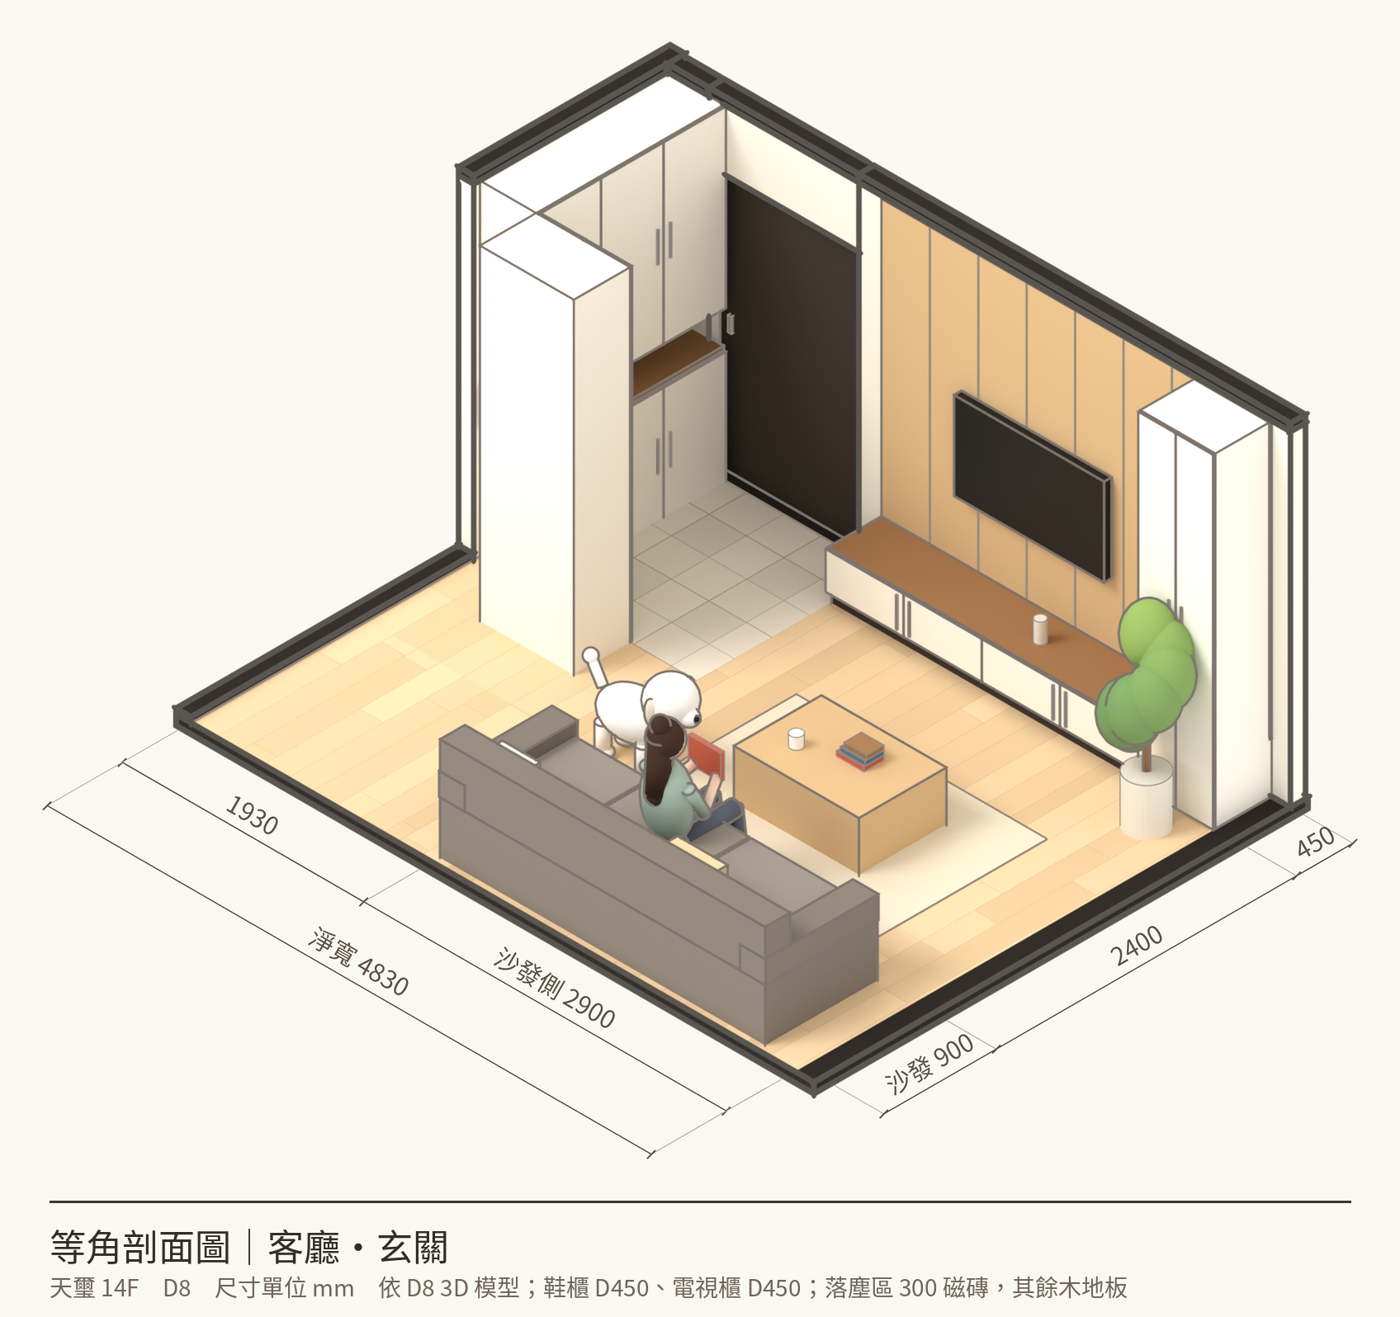
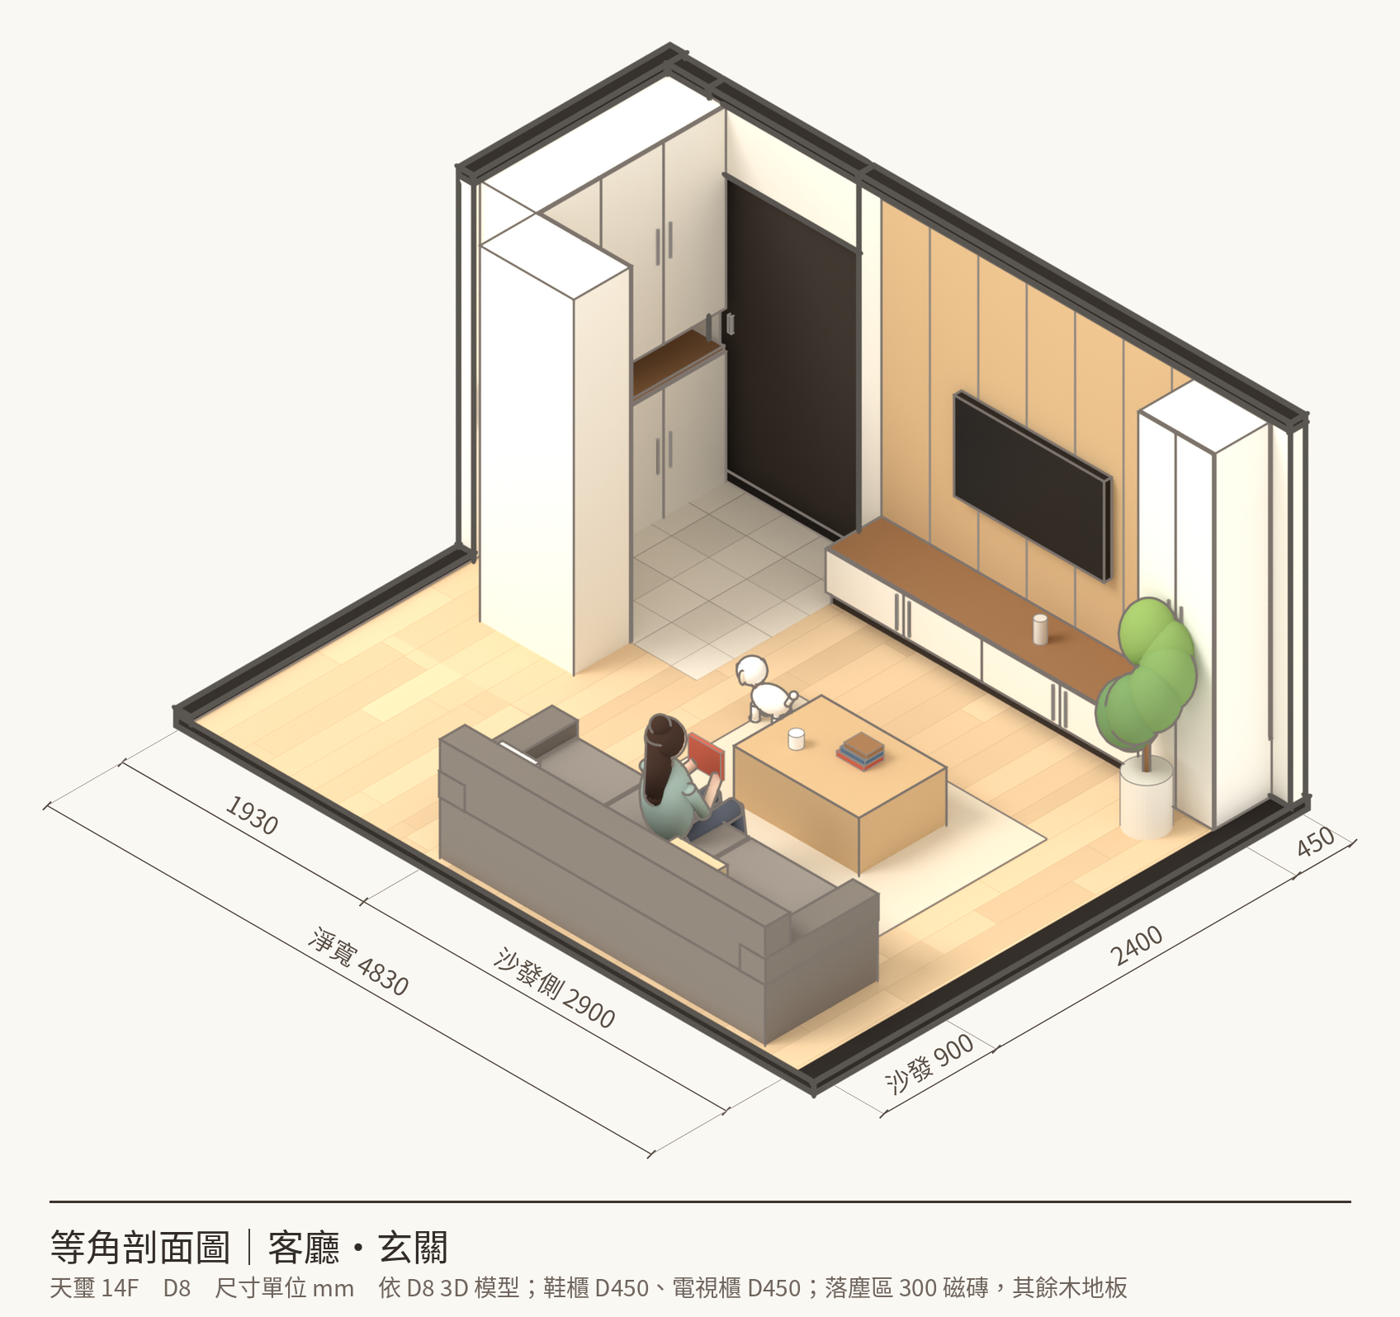
D8 v7: 小狗縮小、CH/窗台改標於說明、尺寸字不壓模型

Changed region(s): [[0.3993, 0.4981, 0.5836, 0.5915]]

diff --git a/index.html b/index.html
@@ -162,7 +162,7 @@ footer{border-top:1px solid var(--line);padding:30px 0 60px;font-size:13px;color
 
 <footer class="w"><b>緯睿室內裝修設計</b><p>尺寸以 D8 平面為準，並以現場丈量為最終依據；樑位置待現場確認。高度、色號、材質以實體樣板與施工圖確認。效果圖與插畫版為 AI 風格示意，非施工依據。</p></footer>
 <script>
-const D={"ROOMS": [{"id": "living", "n": "客廳", "r": [-3300, 0, 1530, 3810], "w": 4830, "d": 3810, "img": "r01_living", "floor": "木地板", "desc": "沙發背靠臥室隔間、面向南側電視牆；西側整面窗採光。", "b": ["沙發 2600×900，茶几 1000×700", "電視櫃 W2500×D450＋客廳高櫃 W600×D450", "西側窗寬約 2250"], "ping": 5.57}, {"id": "entry", "n": "玄關落塵區", "r": [-200, 0, 1080, 1500], "w": 1280, "d": 1500, "img": "r04_entry", "floor": "300×300 磁磚（降板約2cm）", "desc": "進門先落塵，L 型鞋櫃收納。", "b": ["鞋櫃A D450×L1500、鞋櫃B L1200×D450（L 型）", "落塵區開口 1050", "大門門洞 1200（外開）"], "ping": 0.58}, {"id": "kitchen", "n": "廚房", "r": [2280, -20, 6340, 1550], "w": 4060, "d": 1570, "img": "r03_kitchen", "floor": "木地板（全室除衛浴、落塵區外皆木地板）", "desc": "沿南牆一字排開：冰箱＋上櫃、電器高櫃、水槽、三口瓦斯爐；烤漆玻璃壁面＋吊櫃下 LED。", "b": ["由西到東：冰箱700（上方冰箱上櫃 W700）｜電器高櫃600（烤箱＋微波爐）｜一字廚具 2760：水槽900｜備料860｜三口瓦斯爐800｜調味200", "人造石檯面高 850，吊櫃 1500–2600", "中島 ↔ 廚具 走道 920", "東側窗兩扇"], "ping": 1.93}, {"id": "island", "n": "中島區", "r": [3220, 1550, 6340, 3690], "w": 3120, "d": 2140, "img": "r02_dining", "floor": "木地板", "desc": "單一中島兼餐桌，北側為咖啡吧櫃。", "b": ["中島 2000×900（北側懸挑250），IH 兩口，不設水槽", "吧檯椅 ×3，可收入中島下", "咖啡吧櫃 W2400×D450＋展示層板 720×250", "中島東端 ↔ 東牆 940；中島北 ↔ 咖啡吧 960"], "ping": 2.02}, {"id": "master", "n": "主臥", "r": [-3240, 3930, 20, 7080], "w": 3260, "d": 3150, "img": "r05_master", "floor": "木地板", "desc": "雙人床靠北牆，東側整排衣櫃，書桌靠窗角。", "b": ["雙人床 1800×1880", "衣櫃 D600×L2080（系統櫃）", "書桌 800×600", "床 ↔ 衣櫃 860；門洞 900", "窗台 620、窗高 1500"], "ping": 3.11}, {"id": "second", "n": "次臥", "r": [3220, 3930, 6340, 7090], "w": 3120, "d": 3160, "img": "r06_second", "floor": "木地板", "desc": "衣櫃靠西牆，書桌與床並排。", "b": ["雙人床 1500×1880", "衣櫃 D600×L2090（系統櫃）", "書桌 850×600", "床 ↔ 衣櫃 850；門洞 900", "窗台 620、窗高 1500"], "ping": 2.98}], "CABS": [{"id": "c0", "n": "鞋櫃A", "tag": "系統櫃", "r": [1080, 0, 1530, 1500], "dim": "1500×450", "note": "與鞋櫃B 組成 L 型"}, {"id": "c1", "n": "鞋櫃B", "tag": "系統櫃", "r": [330, 1500, 1530, 1950], "dim": "1200×450", "note": "與鞋櫃A 組成 L 型"}, {"id": "c2", "n": "客廳高櫃", "tag": "系統櫃", "r": [-3300, 0, -2700, 450], "dim": "600×450", "note": ""}, {"id": "c3", "n": "電視櫃", "tag": "系統櫃", "r": [-2700, 0, -200, 450], "dim": "2500×450", "note": ""}, {"id": "c4", "n": "電器櫃", "tag": "系統櫃", "r": [2980, -20, 3580, 600], "dim": "620×600", "note": "電器高櫃 W600：烤箱＋微波爐，上下收納"}, {"id": "c5", "n": "一字廚具", "tag": "系統櫃", "r": [3580, -20, 6340, 580], "dim": "2760×600", "note": "水槽900｜備料860｜三口瓦斯爐800｜調味200；人造石檯面、烤漆玻璃壁面、吊櫃下 LED"}, {"id": "c6", "n": "咖啡吧", "tag": "系統櫃", "r": [3940, 3360, 6340, 3810], "dim": "2400×450", "note": ""}, {"id": "c7", "n": "中島", "tag": "木作", "r": [3400, 1500, 5400, 2400], "dim": "2000×900", "note": "2000×900，北側懸挑250；IH 兩口（無水槽）；3 張吧檯椅"}, {"id": "c8", "n": "展示層板", "tag": "木作", "r": [3220, 3560, 3940, 3810], "dim": "720×250", "note": "720×250"}, {"id": "c9", "n": "主臥衣櫃", "tag": "系統櫃", "r": [-580, 5000, 20, 7080], "dim": "2080×600", "note": "到頂系統衣櫃"}, {"id": "c10", "n": "次臥衣櫃", "tag": "系統櫃", "r": [3220, 5000, 3820, 7090], "dim": "2090×600", "note": "到頂系統衣櫃"}, {"id": "c11", "n": "主臥書桌", "tag": "系統櫃", "r": [-1380, 6480, -580, 7080], "dim": "800×600", "note": ""}, {"id": "c12", "n": "次臥書桌", "tag": "系統櫃", "r": [3820, 6490, 4670, 7090], "dim": "850×600", "note": ""}]};const ISO={"kitchen": "<div class=\"isw\"><img src=\"img/iso_d8_kitchen.png\" alt=\"等角剖面 kitchen\" loading=\"lazy\"><button class=\"ihs\" data-c=\"c5\" style=\"left:51.68%;top:42.87%\" title=\"一字廚具\" aria-label=\"一字廚具\"></button><button class=\"ihs\" data-c=\"c7\" style=\"left:41.43%;top:56.9%\" title=\"中島\" aria-label=\"中島\"></button><button class=\"ihs\" data-c=\"c4\" style=\"left:68.53%;top:36.24%\" title=\"電器櫃\" aria-label=\"電器櫃\"></button></div>", "living": "<div class=\"isw\"><img src=\"img/iso_d8_living.png\" alt=\"等角剖面 living\" loading=\"lazy\"><button class=\"ihs\" data-c=\"c3\" style=\"left:70.29%;top:48.41%\" title=\"電視櫃\" aria-label=\"電視櫃\"></button><button class=\"ihs\" data-c=\"c2\" style=\"left:84.14%;top:41.56%\" title=\"客廳高櫃\" aria-label=\"客廳高櫃\"></button><button class=\"ihs\" data-c=\"c0\" style=\"left:45.0%;top:23.03%\" title=\"鞋櫃A\" aria-label=\"鞋櫃A\"></button><button class=\"ihs\" data-c=\"c1\" style=\"left:37.68%;top:31.69%\" title=\"鞋櫃B\" aria-label=\"鞋櫃B\"></button></div>", "master": "<div class=\"isw\"><img src=\"img/iso_d8_master.png\" alt=\"等角剖面 master\" loading=\"lazy\"><button class=\"ihs\" data-c=\"c9\" style=\"left:53.36%;top:31.11%\" title=\"主臥衣櫃\" aria-label=\"主臥衣櫃\"></button><button class=\"ihs\" data-c=\"c11\" style=\"left:43.68%;top:41.98%\" title=\"主臥書桌\" aria-label=\"主臥書桌\"></button></div>", "second": "<div class=\"isw\"><img src=\"img/iso_d8_second.png\" alt=\"等角剖面 second\" loading=\"lazy\"><button class=\"ihs\" data-c=\"c10\" style=\"left:45.15%;top:31.49%\" title=\"次臥衣櫃\" aria-label=\"次臥衣櫃\"></button><button class=\"ihs\" data-c=\"c12\" style=\"left:55.77%;top:42.58%\" title=\"次臥書桌\" aria-label=\"次臥書桌\"></button></div>"};
+const D={"ROOMS": [{"id": "living", "n": "客廳", "r": [-3300, 0, 1530, 3810], "w": 4830, "d": 3810, "img": "r01_living", "floor": "木地板", "desc": "沙發背靠臥室隔間、面向南側電視牆；西側整面窗採光。", "b": ["沙發 2600×900，茶几 1000×700", "電視櫃 W2500×D450＋客廳高櫃 W600×D450", "西側窗寬約 2250"], "ping": 5.57}, {"id": "entry", "n": "玄關落塵區", "r": [-200, 0, 1080, 1500], "w": 1280, "d": 1500, "img": "r04_entry", "floor": "300×300 磁磚（降板約2cm）", "desc": "進門先落塵，L 型鞋櫃收納。", "b": ["鞋櫃A D450×L1500、鞋櫃B L1200×D450（L 型）", "落塵區開口 1050", "大門門洞 1200（外開）"], "ping": 0.58}, {"id": "kitchen", "n": "廚房", "r": [2280, -20, 6340, 1550], "w": 4060, "d": 1570, "img": "r03_kitchen", "floor": "木地板（全室除衛浴、落塵區外皆木地板）", "desc": "沿南牆一字排開：冰箱＋上櫃、電器高櫃、水槽、三口瓦斯爐；烤漆玻璃壁面＋吊櫃下 LED。", "b": ["由西到東：冰箱700（上方冰箱上櫃 W700）｜電器高櫃600（烤箱＋微波爐）｜一字廚具 2760：水槽900｜備料860｜三口瓦斯爐800｜調味200", "人造石檯面高 850，吊櫃 1500–2600", "中島 ↔ 廚具 走道 920", "東側窗兩扇"], "ping": 1.93}, {"id": "island", "n": "中島區", "r": [3220, 1550, 6340, 3690], "w": 3120, "d": 2140, "img": "r02_dining", "floor": "木地板", "desc": "單一中島兼餐桌，北側為咖啡吧櫃。", "b": ["中島 2000×900（北側懸挑250），IH 兩口，不設水槽", "吧檯椅 ×3，可收入中島下", "咖啡吧櫃 W2400×D450＋展示層板 720×250", "中島東端 ↔ 東牆 940；中島北 ↔ 咖啡吧 960"], "ping": 2.02}, {"id": "master", "n": "主臥", "r": [-3240, 3930, 20, 7080], "w": 3260, "d": 3150, "img": "r05_master", "floor": "木地板", "desc": "雙人床靠北牆，東側整排衣櫃，書桌靠窗角。", "b": ["雙人床 1800×1880", "衣櫃 D600×L2080（系統櫃）", "書桌 800×600", "床 ↔ 衣櫃 860；門洞 900", "窗台 620、窗高 1500"], "ping": 3.11}, {"id": "second", "n": "次臥", "r": [3220, 3930, 6340, 7090], "w": 3120, "d": 3160, "img": "r06_second", "floor": "木地板", "desc": "衣櫃靠西牆，書桌與床並排。", "b": ["雙人床 1500×1880", "衣櫃 D600×L2090（系統櫃）", "書桌 850×600", "床 ↔ 衣櫃 850；門洞 900", "窗台 620、窗高 1500"], "ping": 2.98}], "CABS": [{"id": "c0", "n": "鞋櫃A", "tag": "系統櫃", "r": [1080, 0, 1530, 1500], "dim": "1500×450", "note": "與鞋櫃B 組成 L 型"}, {"id": "c1", "n": "鞋櫃B", "tag": "系統櫃", "r": [330, 1500, 1530, 1950], "dim": "1200×450", "note": "與鞋櫃A 組成 L 型"}, {"id": "c2", "n": "客廳高櫃", "tag": "系統櫃", "r": [-3300, 0, -2700, 450], "dim": "600×450", "note": ""}, {"id": "c3", "n": "電視櫃", "tag": "系統櫃", "r": [-2700, 0, -200, 450], "dim": "2500×450", "note": ""}, {"id": "c4", "n": "電器櫃", "tag": "系統櫃", "r": [2980, -20, 3580, 600], "dim": "620×600", "note": "電器高櫃 W600：烤箱＋微波爐，上下收納"}, {"id": "c5", "n": "一字廚具", "tag": "系統櫃", "r": [3580, -20, 6340, 580], "dim": "2760×600", "note": "水槽900｜備料860｜三口瓦斯爐800｜調味200；人造石檯面、烤漆玻璃壁面、吊櫃下 LED"}, {"id": "c6", "n": "咖啡吧", "tag": "系統櫃", "r": [3940, 3360, 6340, 3810], "dim": "2400×450", "note": ""}, {"id": "c7", "n": "中島", "tag": "木作", "r": [3400, 1500, 5400, 2400], "dim": "2000×900", "note": "2000×900，北側懸挑250；IH 兩口（無水槽）；3 張吧檯椅"}, {"id": "c8", "n": "展示層板", "tag": "木作", "r": [3220, 3560, 3940, 3810], "dim": "720×250", "note": "720×250"}, {"id": "c9", "n": "主臥衣櫃", "tag": "系統櫃", "r": [-580, 5000, 20, 7080], "dim": "2080×600", "note": "到頂系統衣櫃"}, {"id": "c10", "n": "次臥衣櫃", "tag": "系統櫃", "r": [3220, 5000, 3820, 7090], "dim": "2090×600", "note": "到頂系統衣櫃"}, {"id": "c11", "n": "主臥書桌", "tag": "系統櫃", "r": [-1380, 6480, -580, 7080], "dim": "800×600", "note": ""}, {"id": "c12", "n": "次臥書桌", "tag": "系統櫃", "r": [3820, 6490, 4670, 7090], "dim": "850×600", "note": ""}]};const ISO={"kitchen": "<div class=\"isw\"><img src=\"img/iso_d8_kitchen.png\" alt=\"等角剖面 kitchen\" loading=\"lazy\"><button class=\"ihs\" data-c=\"c5\" style=\"left:51.68%;top:42.87%\" title=\"一字廚具\" aria-label=\"一字廚具\"></button><button class=\"ihs\" data-c=\"c7\" style=\"left:41.43%;top:56.9%\" title=\"中島\" aria-label=\"中島\"></button><button class=\"ihs\" data-c=\"c4\" style=\"left:68.53%;top:36.24%\" title=\"電器櫃\" aria-label=\"電器櫃\"></button></div>", "living": "<div class=\"isw\"><img src=\"img/iso_d8_living.png?v=7\" alt=\"等角剖面 living\" loading=\"lazy\"><button class=\"ihs\" data-c=\"c3\" style=\"left:70.29%;top:48.41%\" title=\"電視櫃\" aria-label=\"電視櫃\"></button><button class=\"ihs\" data-c=\"c2\" style=\"left:84.14%;top:41.56%\" title=\"客廳高櫃\" aria-label=\"客廳高櫃\"></button><button class=\"ihs\" data-c=\"c0\" style=\"left:45.0%;top:23.03%\" title=\"鞋櫃A\" aria-label=\"鞋櫃A\"></button><button class=\"ihs\" data-c=\"c1\" style=\"left:37.68%;top:31.69%\" title=\"鞋櫃B\" aria-label=\"鞋櫃B\"></button></div>", "master": "<div class=\"isw\"><img src=\"img/iso_d8_master.png?v=7\" alt=\"等角剖面 master\" loading=\"lazy\"><button class=\"ihs\" data-c=\"c9\" style=\"left:53.36%;top:30.02%\" title=\"主臥衣櫃\" aria-label=\"主臥衣櫃\"></button><button class=\"ihs\" data-c=\"c11\" style=\"left:43.68%;top:41.06%\" title=\"主臥書桌\" aria-label=\"主臥書桌\"></button></div>", "second": "<div class=\"isw\"><img src=\"img/iso_d8_second.png?v=7\" alt=\"等角剖面 second\" loading=\"lazy\"><button class=\"ihs\" data-c=\"c10\" style=\"left:45.37%;top:30.36%\" title=\"次臥衣櫃\" aria-label=\"次臥衣櫃\"></button><button class=\"ihs\" data-c=\"c12\" style=\"left:55.5%;top:41.63%\" title=\"次臥書桌\" aria-label=\"次臥書桌\"></button></div>"};
 const R=D.ROOMS,C=D.CABS;let mode='space',idx=0,cidx=0;
 const $=s=>document.querySelector(s),$$=s=>[...document.querySelectorAll(s)];
 function pills(){const L=mode=='space'?R:C;$('#pills').innerHTML=L.map((r,i)=>`<button data-i="${i}">${r.n}</button>`).join('');$$('#pills button').forEach(b=>b.onclick=()=>show(+b.dataset.i))}
